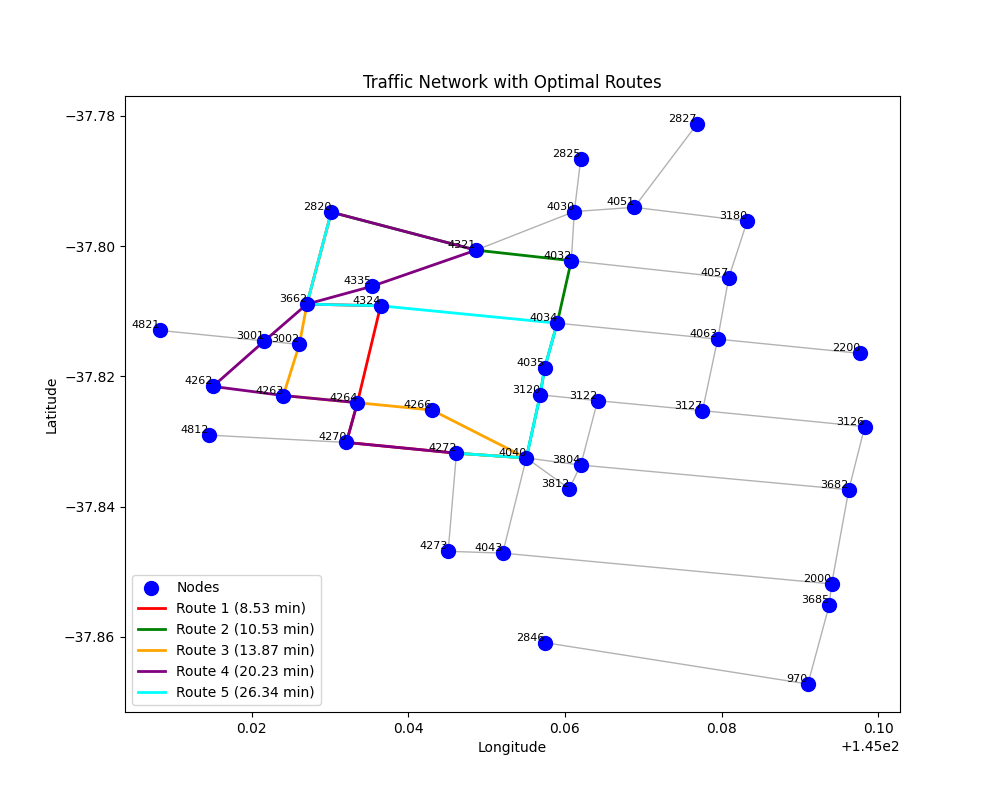
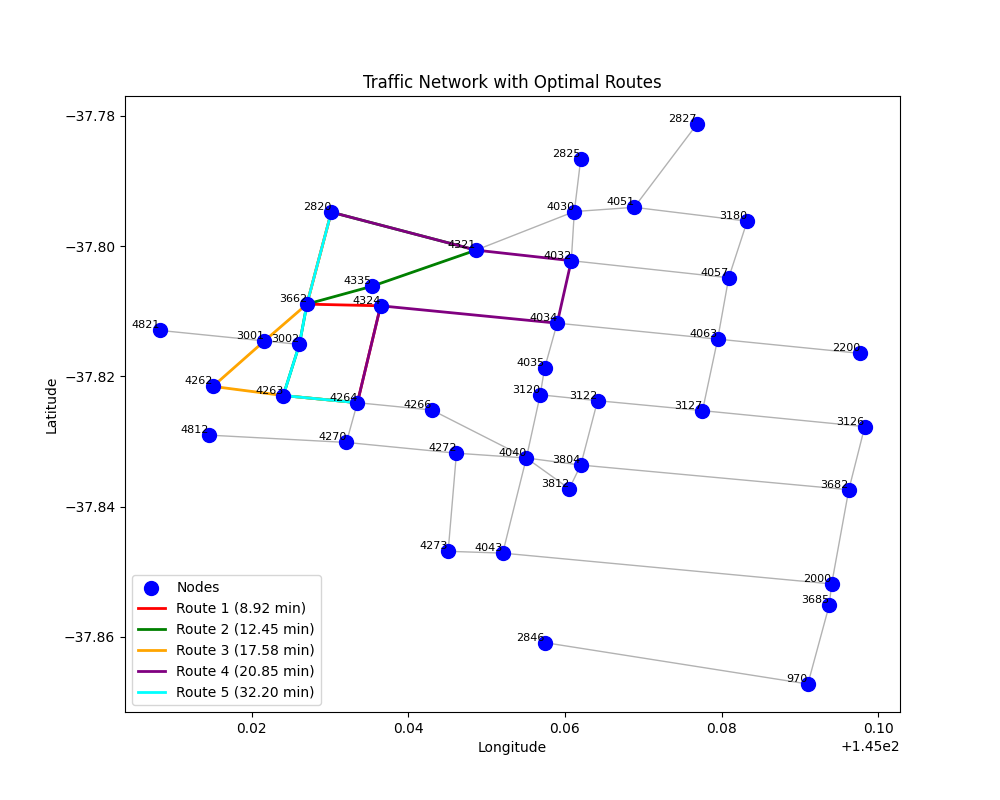
commit

diff --git a/main.py b/main.py
@@ -1,10 +1,10 @@
 import numpy as np
 from sklearn.metrics import mean_squared_error, mean_absolute_error
-from sklearn.preprocessing import MinMaxScaler  
+from sklearn.preprocessing import MinMaxScaler
+from sklearn.model_selection import train_test_split
 import networkx as nx
 from parse_train import load_and_process_data, prepare_time_series_data, create_traffic_network
 from train import LSTMModel, GRUModel, FNNRegressor, train_model
-from algorithms.astar import astar
 import torch
 import torch.nn as nn
 import torch.optim as optim
@@ -12,9 +12,8 @@ from datetime import datetime
 import os
 import matplotlib.pyplot as plt
 
-# Train only the selected model
 def train_selected_model(traffic_data, locations, scats_numbers, ml, look_back=4):
-    # Prepare data for LSTM and GRU
+    # Prepare data for all models (LSTM, GRU, FNN)
     X_train, y_train, X_test, y_test, scaler = prepare_time_series_data(traffic_data, look_back)
     
     input_size = X_train.shape[2]  # Single feature
@@ -34,68 +33,13 @@ def train_selected_model(traffic_data, locations, scats_numbers, ml, look_back=4
         return model, scaler, X_train, y_train, X_test, y_test, None
     elif ml == "FNN":
         print("Training FNN...")
-        X_fnn, y_fnn = compute_fnn_travel_time(traffic_data)
-        model, fnn_scaler = train_fnn(X_fnn, y_fnn)
-        return model, None, None, None, None, None, fnn_scaler
+        model = FNNRegressor(input_size, hidden_size, look_back, output_size)
+        loss = train_model(model, X_train, y_train, X_test, y_test, scaler, locations, scats_numbers)
+        return model, scaler, X_train, y_train, X_test, y_test, None
     else:
         raise ValueError(f"Invalid ML model: {ml}")
 
-def train_fnn(X, y):
-    scaler = StandardScaler()
-    X_scaled = scaler.fit_transform(X.reshape(-1, 1))
-    X_train, X_test, y_train, y_test = train_test_split(X_scaled, y, test_size=0.2, random_state=42)
-
-    X_train = torch.tensor(X_train, dtype=torch.float32)
-    y_train = torch.tensor(y_train, dtype=torch.float32).unsqueeze(1)
-    X_test = torch.tensor(X_test, dtype=torch.float32)
-    y_test = torch.tensor(y_test, dtype=torch.float32).unsqueeze(1)
-
-    model = FNNRegressor(X_train.shape[1])
-    optimizer = optim.Adam(model.parameters(), lr=0.001)
-    loss_fn = nn.MSELoss()
-
-    for epoch in range(100):
-        model.train()
-        pred = model(X_train)
-        loss = loss_fn(pred, y_train)
-        optimizer.zero_grad()
-        loss.backward()
-        optimizer.step()
-        if epoch % 10 == 0:
-            print(f'FNN epoch {epoch} – loss: {loss.item():.4f}')
-
-    model.eval()
-    with torch.no_grad():
-        preds = model(X_test)
-        test_loss = loss_fn(preds, y_test)
-        print(f'FNN test loss: {test_loss.item():.4f}')
-        for i in range(3):
-            print(f'Actual: {y_test[i].item():.2f} – Predicted: {preds[i].item():.2f}')
-
-    return model, scaler
-
-# Convert flow to travel time
-def compute_fnn_travel_time(data):
-    # Data is 1D, reshape to 2D for compatibility
-    X = data.reshape(-1, 1)
-    flow = data  # Single feature
-
-    # Speed calculation
-    speed = np.where(flow <= 351, 60, 0)
-    mask = flow > 351
-    a, b, c = -1.4648375, 93.75, -flow[mask]
-    disc = b**2 - 4*a*c
-    root = np.sqrt(disc)
-    congested_speed = (-b + root) / (2*a)
-    speed[mask] = congested_speed
-    speed = np.clip(speed, 1, 60)
-
-    # Travel time: distance / speed + 30s delay
-    travel_time = (0.5 / (speed / 60)) + 0.5  # 0.5km link + 30sec
-    return X, travel_time
-
-# Find optimal paths
-def find_optimal_paths(G, nodes, origin, destination, num_paths=5):
+def find_optimal_paths(G, nodes, origin, destination, model, scaler, ml, traffic_data, look_back=4, num_paths=5):
     origin = int(origin)
     destination = int(destination)
     if origin not in G.nodes:
@@ -109,25 +53,52 @@ def find_optimal_paths(G, nodes, origin, destination, num_paths=5):
         print(f"Error: No path exists between {origin} and {destination}.")
         return []
     
-    graph_dict = {int(node): [(int(neighbor), G[node][neighbor]['weight']) for neighbor in G.neighbors(node)] for node in G.nodes}
+    # Create a copy of the graph to modify weights
+    G = G.copy()
+    
+    # Prepare input for ML model to predict edge weights
+    if len(traffic_data) < look_back:
+        print(f"Error: Not enough data for look_back={look_back}. Traffic data length: {len(traffic_data)}")
+        return []
+    
+    scaler = MinMaxScaler() if scaler is None else scaler
+    scaled_data = scaler.fit_transform(traffic_data.reshape(-1, 1))
+    X = scaled_data[-look_back:].reshape(1, look_back, 1)  # Shape: (1, look_back, 1)
+    X_tensor = torch.FloatTensor(X)
+    
+    model.eval()
+    with torch.no_grad():
+        predictions = model(X_tensor).numpy()  # Predicted traffic flow
+        predicted_flow = scaler.inverse_transform(predictions)[0]  # Inverse transform to original scale
+    
+    # Update edge weights in the graph using ML predictions
+    for u, v in G.edges():
+        try:
+            idx = list(G.nodes).index(u)  # Map node to index in predictions
+            travel_time = predicted_flow[idx] if idx < len(predicted_flow) else G[u][v]['weight']
+            travel_time = max(float(travel_time), 0.1)  # Avoid zero/negative weights
+            G[u][v]['weight'] = travel_time
+        except (IndexError, ValueError) as e:
+            print(f"Warning: Could not update weight for edge ({u}, {v}): {e}")
+            continue
     
     paths = []
-    original_graph_dict = graph_dict.copy()
-    
     for i in range(num_paths):
-        goal, _, path, cost = astar(graph_dict, nodes, origin, [destination], heuristic="E")
-        if not path:
+        try:
+            # Find the shortest path using NetworkX's shortest_path
+            path = nx.shortest_path(G, source=origin, target=destination, weight='weight')
+            # Calculate total travel time for the path
+            travel_time = sum(G[path[j]][path[j+1]]['weight'] for j in range(len(path)-1))
+            paths.append({'path': [int(node) for node in path], 'travel_time': travel_time})
+            
+            # Temporarily increase weights to diversify paths
+            for j in range(len(path)-1):
+                u, v = path[j], path[j+1]
+                if G.has_edge(u, v):
+                    G[u][v]['weight'] *= 2
+        except nx.NetworkXNoPath:
             print(f"No more paths found after {i} paths.")
             break
-        paths.append({'path': [int(node) for node in path], 'travel_time': cost})
-        
-        # Temporarily increase weights
-        for j in range(len(path)-1):
-            for neighbor, weight in graph_dict[path[j]]:
-                if neighbor == path[j+1]:
-                    graph_dict[path[j]] = [(n, w*2 if n == neighbor else w) for n, w in graph_dict[path[j]]]
-    
-    graph_dict.update(original_graph_dict)
     
     return paths
 
@@ -137,50 +108,31 @@ def main(file_path, origin, destination, ml, time):
     print(f"Main: Time {time}, Traffic data shape: {traffic_data.shape}, Sample: {traffic_data[:5]}")
     
     look_back = 4
-    input_size = 1  # Single feature (traffic volume for the selected time)
-    hidden_size = 50
-    num_layers = 2
-    output_size = input_size
     
-    # Train only the selected model
+    # Train the selected model
     print(f"Training {ml} model...")
-    model, scaler, X_train, y_train, X_test, y_test, fnn_scaler = train_selected_model(traffic_data, locations, scats_numbers, ml, look_back)
+    model, scaler, X_train, y_train, X_test, y_test, _ = train_selected_model(traffic_data, locations, scats_numbers, ml, look_back)
     
     model.eval()
     
     # Get predictions
     with torch.no_grad():
-        if ml in ["LSTM", "GRU"]:
-            # Prepare time-specific input data
-            scaler = MinMaxScaler()
-            scaled_data = scaler.fit_transform(traffic_data.reshape(-1, 1))
-            X = []
-            for i in range(len(scaled_data) - look_back):
-                X.append(scaled_data[i:i+look_back])
-            if len(X) == 0:
-                print(f"Error: Not enough data for look_back={look_back}. Traffic data length: {len(traffic_data)}")
-                return []
-            X = np.array(X)  # Shape: (samples, look_back, 1)
-            X_tensor = torch.FloatTensor(X)
-            try:
-                predictions = model(X_tensor[-1:]).numpy()  # Shape: (1, output_size)
-                time_specific_predictions = scaler.inverse_transform(predictions)[0]
-            except Exception as e:
-                print(f"Error during model prediction: {e}")
-                return []
-        else:  # FNN
-            X_fnn, _ = compute_fnn_travel_time(traffic_data)
-            if len(X_fnn) == 0:
-                print("No data available for FNN prediction.")
-                return []
-            X_fnn_time = X_fnn[-1:]  # Use the last time step
-            X_fnn_time_scaled = fnn_scaler.transform(X_fnn_time)
-            X_fnn_time_tensor = torch.tensor(X_fnn_time_scaled, dtype=torch.float32)
-            try:
-                time_specific_predictions = model(X_fnn_time_tensor).numpy().flatten()
-            except Exception as e:
-                print(f"Error during FNN prediction: {e}")
-                return []
+        scaler = MinMaxScaler() if scaler is None else scaler
+        scaled_data = scaler.fit_transform(traffic_data.reshape(-1, 1))
+        X = []
+        for i in range(len(scaled_data) - look_back):
+            X.append(scaled_data[i:i+look_back])
+        if len(X) == 0:
+            print(f"Error: Not enough data for look_back={look_back}. Traffic data length: {len(traffic_data)}")
+            return []
+        X = np.array(X)  # Shape: (samples, look_back, 1)
+        X_tensor = torch.FloatTensor(X)
+        try:
+            predictions = model(X_tensor[-1:]).numpy()  # Shape: (1, output_size)
+            time_specific_predictions = scaler.inverse_transform(predictions)[0]
+        except Exception as e:
+            print(f"Error during model prediction: {e}")
+            return []
     
     print(f"Time-specific predictions: {time_specific_predictions[:5]}")
     
@@ -188,8 +140,8 @@ def main(file_path, origin, destination, ml, time):
     G = create_traffic_network(locations, scats_numbers, time_specific_predictions, scats_numbers)
     nodes = {int(scats): (lat, lon) for scats, lat, lon in locations}
     
-    # Find paths
-    paths = find_optimal_paths(G, nodes, origin, destination)
+    # Find paths using ML model predictions
+    paths = find_optimal_paths(G, nodes, origin, destination, model, scaler, ml, traffic_data, look_back)
     
     print("\n=== Optimal Paths ===")
     if not paths:
@@ -211,8 +163,6 @@ def main(file_path, origin, destination, ml, time):
     
     plot_traffic_network(G, nodes, paths)
     return paths
-
-import matplotlib.pyplot as plt
 
 def plot_traffic_network(G, nodes, paths):
     plt.figure(figsize=(10, 8))
@@ -248,6 +198,6 @@ if __name__ == "__main__":
     file_path = "Scats Data October 2006.xls"
     origin = 2200
     destination = 3120
-    ml = "LSTM"
+    ml = "FNN"  # Test with FNN
     time = "0:00"
     main(file_path, origin, destination, ml, time)

diff --git a/train.py b/train.py
@@ -32,20 +32,25 @@ class GRUModel(nn.Module):
         out, _ = self.gru(x)
         out = self.fc(out[:, -1, :])
         return out
-    
+
 class FNNRegressor(nn.Module):
-    def __init__(self, input_dim):
+    def __init__(self, input_size, hidden_size, look_back, output_size):
         super(FNNRegressor, self).__init__()
-        self.model = nn.Sequential(
-            nn.Linear(input_dim, 64),
+        self.input_size = input_size
+        self.look_back = look_back
+        # Flatten the input (look_back * input_size)
+        self.fc = nn.Sequential(
+            nn.Linear(input_size * look_back, hidden_size),
             nn.ReLU(),
-            nn.Linear(64, 32),
+            nn.Linear(hidden_size, 25),
             nn.ReLU(),
-            nn.Linear(32, 1)
+            nn.Linear(25, output_size)
         )
 
     def forward(self, x):
-        return self.model(x)
+        batch_size = x.size(0)
+        x = x.view(batch_size, -1) 
+        return self.fc(x)
 
 def train_model(model, X_train, y_train, X_test, y_test, scaler, locations, scats_numbers, epochs=50, batch_size=32, patience=10):
     criterion = nn.MSELoss()
